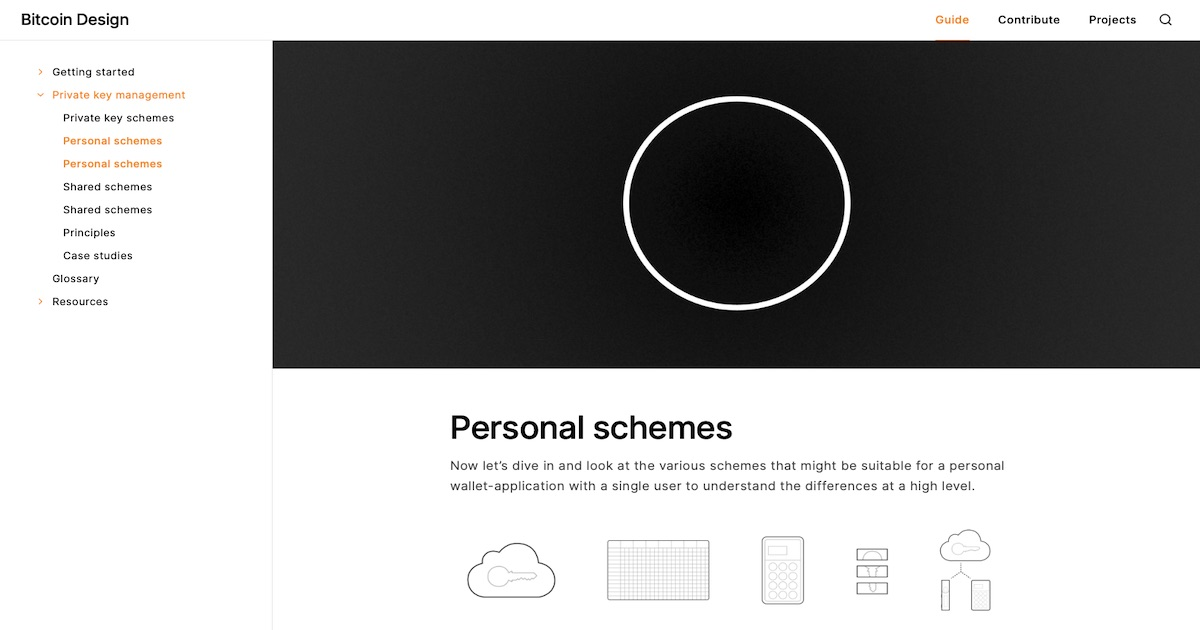
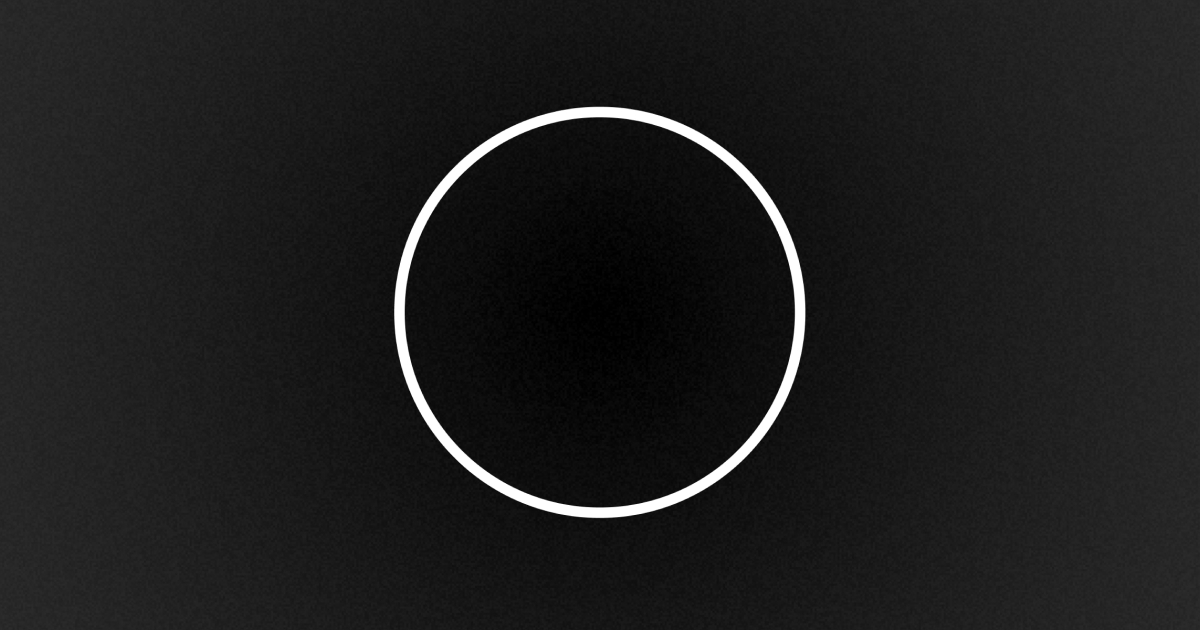
Fix various social preview images
As found via: https://github.com/BitcoinDesign/Guide/issues/245#issuecomment-843103747

diff --git a/guide/case-studies/upgradeable-wallet.md b/guide/case-studies/upgradeable-wallet.md
@@ -4,7 +4,7 @@ title: Upgradeable account
 nav_order: 3
 parent: Case studies
 permalink: /guide/case-studies/upgradeable-wallet/
-image: https://bitcoin.design/assets/images/guide/getting-started/getting-started-preview.jpg
+image: https://bitcoin.design/assets/images/guide/case-studies/upgradeable-wallet/upgradeable-wallet-preview.jpg
 image_base: /assets/images/guide/case-studies/upgradeable-wallet/
 images:
     - file: first

diff --git a/guide/private-key-management/introduction.md b/guide/private-key-management/introduction.md
@@ -6,7 +6,7 @@ nav_order: 4
 has_children: true
 permalink: /guide/private-key-management/introduction/
 main_classes: -no-top-padding
-image: https://bitcoin.design/assets/images/guide/private-key-management/page-private-key-management.jpg
+image: https://bitcoin.design/assets/images/guide/private-key-management/private-key-management-preview.jpg
 ---
 
 <!--

diff --git a/guide/case-studies/introduction.md b/guide/case-studies/introduction.md
@@ -6,7 +6,7 @@ nav_order: 7
 has_children: true
 permalink: /guide/case-studies/
 main_classes: -no-top-padding
-image: https://bitcoin.design/assets/images/guide/private-key-management/case-studies/page-case-studies.jpg
+image: https://bitcoin.design/assets/images/guide/case-studies/page-case-studies.jpg
 ---
 
 <!--

diff --git a/guide/onboarding/getting-to-know-your-users.md b/guide/onboarding/getting-to-know-your-users.md
@@ -6,6 +6,7 @@ parent: Onboarding
 nav_order: 1
 permalink: /guide/onboarding/getting-to-know-your-users/
 main_classes: -no-top-padding
+image: https://bitcoin.design/assets/images/guide/onboarding/getting-to-know-your-users/getting-to-know-your-users-preview.jpg
 ---
 
 {% include picture.html

diff --git a/guide/payments/introduction.md b/guide/payments/introduction.md
@@ -6,6 +6,7 @@ nav_order: 5
 has_children: true
 permalink: /guide/payments/
 main_classes: -no-top-padding
+image: https://bitcoin.design/assets/images/guide/payments/payments-preview.jpg
 ---
 
 {% include picture.html
